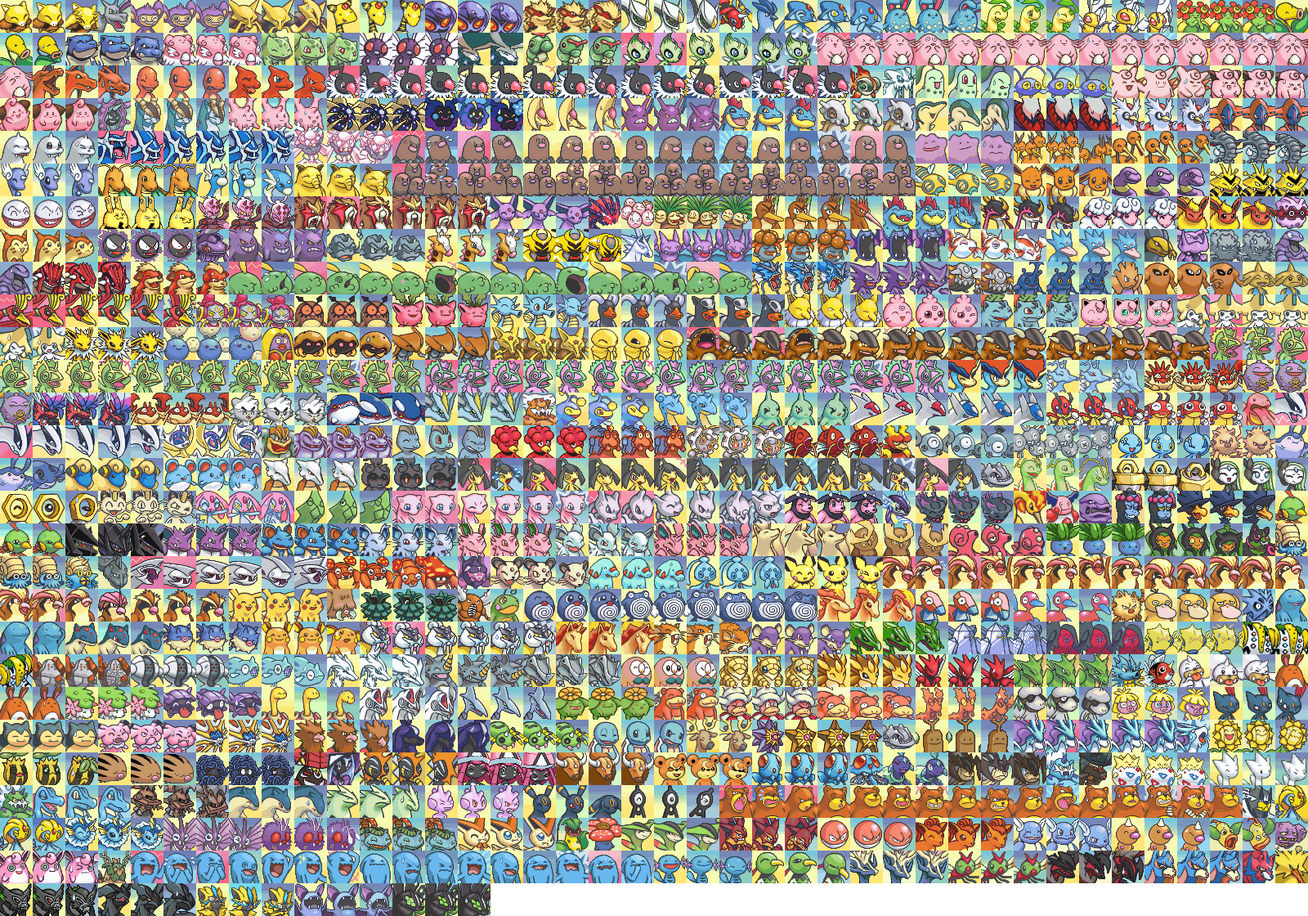
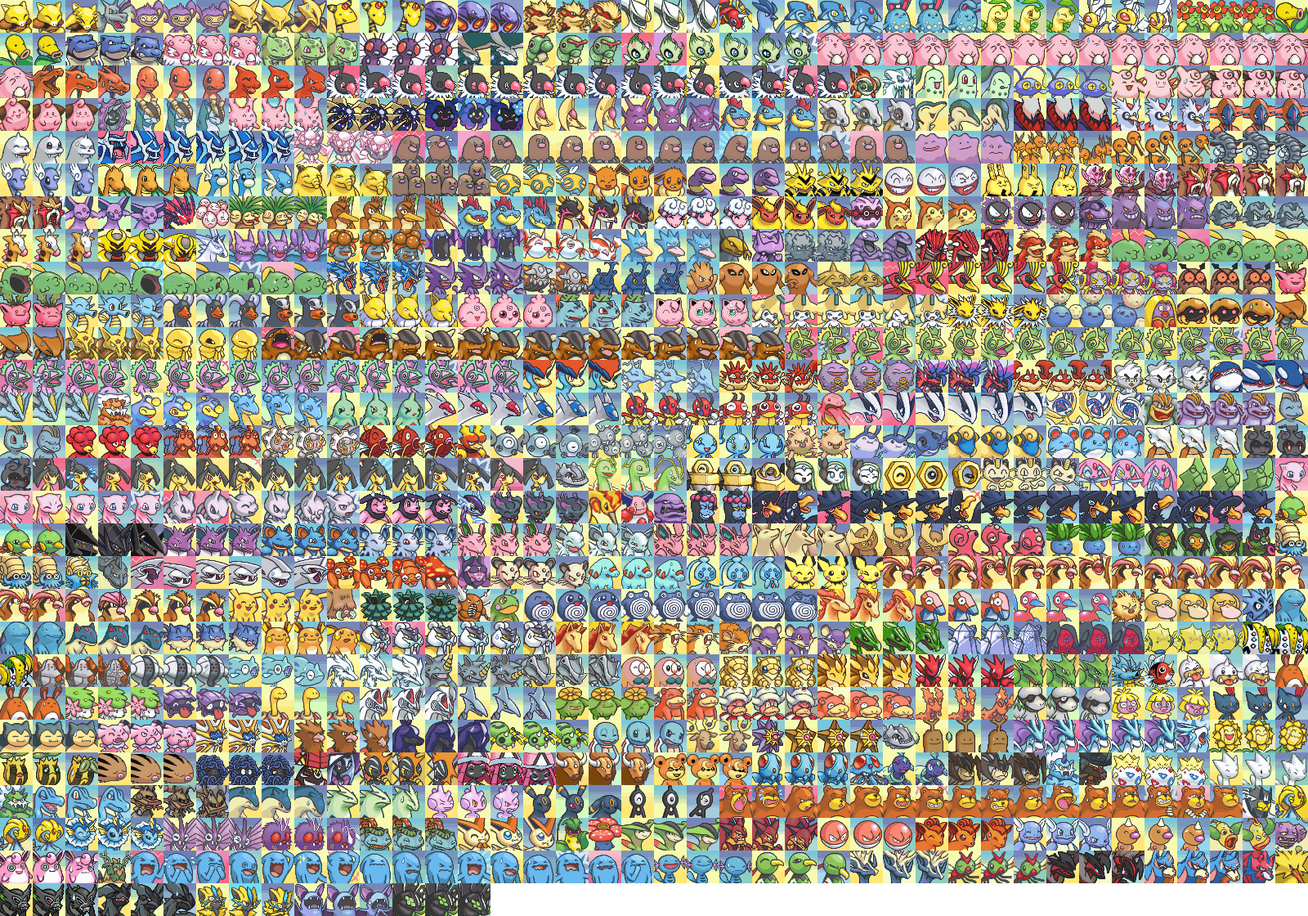
Beta 0.3.1: Murkrow, el cartero del gremio

diff --git a/client/js/portraits.js b/client/js/portraits.js
@@ -1,3 +1,3 @@
 // Generado por tools/build-portraits.py — retratos con emociones (atlas 40×40, 40 por fila)
-export const PORTRAIT = {"abra":{"Happy":0,"Normal":1,"Pain":2},"aerodactyl":{"Normal":3},"aipom":{"Happy":4,"Normal":5,"Pain":6},"alakazam":{"Happy":7,"Normal":8,"Pain":9},"ampharos":{"Happy":10,"Normal":11,"Pain":12},"arbok":{"Happy":13,"Normal":14,"Pain":15},"arcanine":{"Happy":16,"Normal":17,"Pain":18},"arceus":{"Happy":19,"Normal":20,"Pain":21},"ariados":{"Normal":22},"articuno":{"Normal":23},"azelf":{"Happy":24,"Normal":25,"Pain":26},"azumarill":{"Happy":27,"Normal":28,"Pain":29},"bayleef":{"Happy":30,"Normal":31,"Pain":32},"beedrill":{"Happy":33,"Normal":34,"Pain":35},"bellossom":{"Happy":36,"Normal":37,"Pain":38},"bellsprout":{"Happy":39,"Normal":40,"Pain":41},"blastoise":{"Happy":42,"Normal":43,"Pain":44},"blissey":{"Happy":45,"Normal":46,"Pain":47},"bulbasaur":{"Happy":48,"Normal":49,"Pain":50},"butterfree":{"Happy":51,"Normal":52,"Pain":53},"calyrex":{"Happy":54,"Normal":55},"caterpie":{"Happy":56,"Normal":57,"Pain":58},"celebi":{"Angry":59,"Determined":60,"Happy":61,"Normal":62,"Pain":63,"Surprised":64},"chansey":{"Angry":65,"Crying":66,"Determined":67,"Dizzy":68,"Happy":69,"Inspired":70,"Joyous":71,"Normal":72,"Pain":73,"Sad":74,"Shouting":75,"Sigh":76,"Stunned":77,"Surprised":78,"Teary-Eyed":79,"Worried":80},"charizard":{"Happy":81,"Normal":82,"Pain":83},"charmander":{"Happy":84,"Normal":85,"Pain":86},"charmeleon":{"Happy":87,"Normal":88,"Pain":89},"chatot":{"Angry":90,"Crying":91,"Determined":92,"Dizzy":93,"Happy":94,"Inspired":95,"Joyous":96,"Normal":97,"Pain":98,"Sad":99,"Shouting":100,"Sigh":101,"Stunned":102,"Surprised":103,"Teary-Eyed":104,"Worried":105},"chi_yu":{"Normal":106},"chien_pao":{"Normal":107},"chikorita":{"Happy":108,"Normal":109,"Pain":110},"chinchou":{"Happy":111,"Normal":112,"Pain":113},"clefable":{"Happy":114,"Normal":115,"Pain":116},"clefairy":{"Happy":117,"Normal":118,"Pain":119},"cleffa":{"Happy":120,"Normal":121,"Pain":122},"cloyster":{"Normal":123},"cobalion":{"Happy":124,"Normal":125,"Pain":126},"corsola":{"Happy":127,"Normal":128,"Pain":129},"cosmoem":{"Happy":130,"Normal":131,"Pain":132},"cosmog":{"Happy":133,"Normal":134,"Pain":135},"cresselia":{"Happy":136,"Normal":137,"Pain":138},"crobat":{"Happy":139,"Normal":140,"Pain":141},"croconaw":{"Happy":142,"Normal":143,"Pain":144},"cubone":{"Happy":145,"Normal":146,"Pain":147},"cyndaquil":{"Happy":148,"Normal":149,"Pain":150},"darkrai":{"Happy":151,"Normal":152,"Pain":153},"delibird":{"Happy":154,"Normal":155,"Pain":156},"deoxys":{"Happy":157,"Normal":158,"Pain":159},"dewgong":{"Happy":160,"Normal":161,"Pain":162},"dialga":{"Angry":163,"Determined":164,"Happy":165,"Normal":166,"Pain":167,"Surprised":168},"diancie":{"Happy":169,"Normal":170,"Pain":171},"diglett":{"Angry":172,"Crying":173,"Determined":174,"Dizzy":175,"Happy":176,"Inspired":177,"Joyous":178,"Normal":179,"Pain":180,"Sad":181,"Shouting":182,"Sigh":183,"Stunned":184,"Surprised":185,"Teary-Eyed":186,"Worried":187},"ditto":{"Happy":188,"Normal":189,"Pain":190},"dodrio":{"Happy":191,"Normal":192,"Pain":193},"doduo":{"Happy":194,"Normal":195,"Pain":196},"donphan":{"Happy":197,"Normal":198,"Pain":199},"dragonair":{"Happy":200,"Normal":201,"Pain":202},"dragonite":{"Happy":203,"Normal":204,"Pain":205},"dratini":{"Happy":206,"Normal":207,"Pain":208},"drowzee":{"Happy":209,"Normal":210,"Pain":211},"dugtrio":{"Angry":212,"Crying":213,"Determined":214,"Dizzy":215,"Happy":216,"Inspired":217,"Joyous":218,"Normal":219,"Pain":220,"Sad":221,"Shouting":222,"Sigh":223,"Stunned":224,"Surprised":225,"Teary-Eyed":226,"Worried":227},"dunsparce":{"Happy":228,"Normal":229,"Pain":230},"eevee":{"Happy":231,"Normal":232,"Pain":233},"ekans":{"Happy":234,"Normal":235,"Pain":236},"electabuzz":{"Happy":237,"Normal":238,"Pain":239},"electrode":{"Happy":240,"Normal":241,"Pain":242},"elekid":{"Happy":243,"Normal":244,"Pain":245},"enamorus":{"Happy":246,"Normal":247,"Pain":248},"entei":{"Angry":249,"Determined":250,"Happy":251,"Normal":252,"Pain":253,"Surprised":254},"espeon":{"Happy":255,"Normal":256,"Pain":257},"eternatus":{"Normal":258},"exeggcute":{"Normal":259},"exeggutor":{"Happy":260,"Normal":261,"Pain":262},"farfetchd":{"Happy":263,"Normal":264,"Pain":265},"fearow":{"Normal":266},"feraligatr":{"Happy":267,"Normal":268,"Pain":269},"fezandipiti":{"Happy":270,"Normal":271,"Pain":272},"flaaffy":{"Happy":273,"Normal":274,"Pain":275},"flareon":{"Happy":276,"Normal":277,"Pain":278},"forretress":{"Normal":279},"furret":{"Happy":280,"Normal":281,"Pain":282},"gastly":{"Happy":283,"Normal":284,"Pain":285},"genesect":{"Normal":286},"gengar":{"Happy":287,"Normal":288,"Pain":289},"geodude":{"Happy":290,"Normal":291,"Pain":292},"girafarig":{"Happy":293,"Normal":294,"Pain":295},"giratina":{"Happy":296,"Normal":297,"Pain":298},"glastrier":{"Normal":299},"gligar":{"Happy":300,"Normal":301,"Pain":302},"gloom":{"Happy":303,"Normal":304,"Pain":305},"golbat":{"Happy":306,"Normal":307,"Pain":308},"goldeen":{"Happy":309,"Normal":310,"Pain":311},"golduck":{"Happy":312,"Normal":313,"Pain":314},"golem":{"Normal":315},"granbull":{"Normal":316},"graveler":{"Normal":317,"Pain":318},"grimer":{"Normal":319,"Pain":320},"groudon":{"Happy":321,"Normal":322,"Pain":323},"growlithe":{"Happy":324,"Normal":325,"Pain":326},"gulpin":{"Angry":327,"Crying":328,"Determined":329,"Dizzy":330,"Happy":331,"Inspired":332,"Joyous":333,"Normal":334,"Pain":335,"Sad":336,"Shouting":337,"Sigh":338,"Stunned":339,"Surprised":340,"Teary-Eyed":341,"Worried":342},"gyarados":{"Happy":343,"Normal":344,"Pain":345},"haunter":{"Happy":346,"Normal":347,"Pain":348},"heatran":{"Normal":349,"Pain":350},"heracross":{"Happy":351,"Normal":352,"Pain":353},"hitmonchan":{"Normal":354},"hitmonlee":{"Happy":355,"Normal":356,"Pain":357},"hitmontop":{"Happy":358,"Normal":359},"ho_oh":{"Angry":360,"Determined":361,"Happy":362,"Normal":363,"Pain":364,"Surprised":365},"hoopa":{"Happy":366,"Normal":367,"Pain":368},"hoothoot":{"Happy":369,"Normal":370,"Pain":371},"hoppip":{"Happy":372,"Normal":373,"Pain":374},"horsea":{"Happy":375,"Normal":376,"Pain":377},"houndoom":{"Happy":378,"Normal":379,"Pain":380},"houndour":{"Happy":381,"Normal":382,"Pain":383},"hypno":{"Happy":384,"Normal":385,"Pain":386},"igglybuff":{"Happy":387,"Normal":388,"Pain":389},"ivysaur":{"Happy":390,"Normal":391,"Pain":392},"jigglypuff":{"Happy":393,"Normal":394,"Pain":395},"jirachi":{"Angry":396,"Determined":397,"Happy":398,"Normal":399,"Pain":400,"Surprised":401},"jolteon":{"Happy":402,"Normal":403,"Pain":404},"jumpluff":{"Happy":405,"Normal":406,"Pain":407},"jynx":{"Normal":408},"kabuto":{"Happy":409,"Normal":410,"Pain":411},"kabutops":{"Happy":412,"Normal":413,"Pain":414},"kadabra":{"Happy":415,"Normal":416,"Pain":417},"kakuna":{"Happy":418,"Normal":419,"Pain":420},"kangaskhan":{"Angry":421,"Crying":422,"Determined":423,"Dizzy":424,"Happy":425,"Inspired":426,"Joyous":427,"Normal":428,"Pain":429,"Sad":430,"Shouting":431,"Sigh":432,"Stunned":433,"Surprised":434,"Teary-Eyed":435,"Worried":436},"kecleon":{"Angry":437,"Crying":438,"Determined":439,"Dizzy":440,"Happy":441,"Inspired":442,"Joyous":443,"Normal":444,"Pain":445,"Sad":446,"Shouting":447,"Sigh":448,"Stunned":449,"Surprised":450,"Teary-Eyed":451,"Worried":452},"kecleon_purple":{"Angry":453,"Crying":454,"Determined":455,"Dizzy":456,"Happy":457,"Inspired":458,"Joyous":459,"Normal":460,"Pain":461,"Sad":462,"Shouting":463,"Sigh":464,"Stunned":465,"Surprised":466,"Teary-Eyed":467,"Worried":468},"keldeo":{"Happy":469,"Normal":470,"Pain":471},"kingdra":{"Happy":472,"Normal":473,"Pain":474},"kingler":{"Happy":475,"Normal":476,"Pain":477},"koffing":{"Happy":478,"Normal":479,"Pain":480},"koraidon":{"Happy":481,"Normal":482,"Pain":483},"krabby":{"Happy":484,"Normal":485,"Pain":486},"kubfu":{"Happy":487,"Normal":488,"Pain":489},"kyogre":{"Happy":490,"Normal":491,"Pain":492},"kyurem":{"Happy":493,"Normal":494,"Pain":495},"landorus":{"Normal":496},"lanturn":{"Happy":497,"Normal":498,"Pain":499},"lapras":{"Happy":500,"Normal":501,"Pain":502},"larvitar":{"Happy":503,"Normal":504,"Pain":505},"latias":{"Happy":506,"Normal":507,"Pain":508},"latios":{"Happy":509,"Normal":510,"Pain":511},"ledian":{"Happy":512,"Normal":513,"Pain":514},"ledyba":{"Happy":515,"Normal":516,"Pain":517},"lickitung":{"Normal":518},"lugia":{"Angry":519,"Determined":520,"Happy":521,"Normal":522,"Pain":523,"Surprised":524},"lunala":{"Happy":525,"Normal":526,"Pain":527},"machamp":{"Normal":528},"machoke":{"Happy":529,"Normal":530,"Pain":531},"machop":{"Happy":532,"Normal":533,"Pain":534},"magby":{"Happy":535,"Normal":536,"Pain":537},"magcargo":{"Happy":538,"Normal":539,"Pain":540},"magearna":{"Happy":541,"Normal":542,"Pain":543},"magikarp":{"Happy":544,"Normal":545,"Pain":546},"magmar":{"Normal":547},"magnemite":{"Happy":548,"Normal":549,"Pain":550},"magneton":{"Happy":551,"Normal":552,"Pain":553},"manaphy":{"Happy":554,"Normal":555,"Pain":556},"mankey":{"Happy":557,"Normal":558},"mantine":{"Happy":559,"Normal":560,"Pain":561},"mareep":{"Happy":562,"Normal":563,"Pain":564},"marill":{"Happy":565,"Normal":566,"Pain":567},"marowak":{"Happy":568,"Normal":569,"Pain":570},"marshadow":{"Happy":571,"Normal":572,"Pain":573},"mawile":{"Angry":574,"Crying":575,"Determined":576,"Dizzy":577,"Happy":578,"Inspired":579,"Joyous":580,"Normal":581,"Pain":582,"Sad":583,"Shouting":584,"Sigh":585,"Stunned":586,"Surprised":587,"Teary-Eyed":588,"Worried":589},"mega_steelix":{"Normal":590},"meganium":{"Happy":591,"Normal":592,"Pain":593},"melmetal":{"Happy":594,"Normal":595,"Pain":596},"meloetta":{"Happy":597,"Normal":598,"Pain":599},"meltan":{"Happy":600,"Normal":601,"Pain":602},"meowth":{"Happy":603,"Normal":604,"Pain":605},"mesprit":{"Happy":606,"Normal":607,"Pain":608},"metapod":{"Happy":609,"Normal":610,"Pain":611},"mew":{"Angry":612,"Determined":613,"Happy":614,"Normal":615,"Pain":616,"Surprised":617},"mewtwo":{"Angry":618,"Determined":619,"Happy":620,"Normal":621,"Pain":622,"Surprised":623},"miltank":{"Happy":624,"Normal":625,"Pain":626},"miraidon":{"Normal":627},"misdreavus":{"Happy":628,"Normal":629,"Pain":630},"moltres":{"Normal":631},"mr_mime":{"Normal":632},"muk":{"Normal":633},"munkidori":{"Happy":634,"Normal":635},"murkrow":{"Happy":636,"Normal":637,"Pain":638},"natu":{"Happy":639,"Normal":640,"Pain":641},"necrozma":{"Happy":642,"Normal":643,"Pain":644},"nidoking":{"Happy":645,"Normal":646,"Pain":647},"nidoqueen":{"Happy":648,"Normal":649,"Pain":650},"nidoran_f":{"Happy":651,"Normal":652,"Pain":653},"nidoran_m":{"Happy":654,"Normal":655,"Pain":656},"nidorina":{"Happy":657,"Normal":658,"Pain":659},"nidorino":{"Happy":660,"Normal":661,"Pain":662},"ninetales":{"Happy":663,"Normal":664,"Pain":665},"noctowl":{"Happy":666,"Normal":667,"Pain":668},"octillery":{"Happy":669,"Normal":670,"Pain":671},"oddish":{"Happy":672,"Normal":673,"Pain":674},"ogerpon":{"Happy":675,"Normal":676,"Pain":677},"okidogi":{"Normal":678},"omanyte":{"Happy":679,"Normal":680,"Pain":681},"omastar":{"Normal":682},"onix":{"Normal":683},"palkia":{"Angry":684,"Determined":685,"Happy":686,"Normal":687,"Pain":688,"Surprised":689},"paras":{"Happy":690,"Normal":691,"Pain":692},"parasect":{"Normal":693},"pecharunt":{"Normal":694},"persian":{"Happy":695,"Normal":696,"Pain":697},"phanpy":{"Happy":698,"Normal":699,"Pain":700},"phione":{"Happy":701,"Normal":702,"Pain":703},"pichu":{"Happy":704,"Normal":705,"Pain":706},"pidgeot":{"Angry":707,"Crying":708,"Determined":709,"Dizzy":710,"Happy":711,"Inspired":712,"Joyous":713,"Normal":714,"Pain":715,"Sad":716,"Shouting":717,"Sigh":718,"Stunned":719,"Surprised":720,"Teary-Eyed":721,"Worried":722},"pidgeotto":{"Normal":723},"pidgey":{"Happy":724,"Normal":725,"Pain":726},"pikachu":{"Happy":727,"Normal":728,"Pain":729},"piloswine":{"Normal":730},"pineco":{"Happy":731,"Normal":732,"Pain":733},"pinsir":{"Normal":734},"politoed":{"Normal":735},"poliwag":{"Happy":736,"Normal":737,"Pain":738},"poliwhirl":{"Happy":739,"Normal":740,"Pain":741},"poliwrath":{"Happy":742,"Normal":743,"Pain":744},"ponyta":{"Happy":745,"Normal":746,"Pain":747},"porygon":{"Happy":748,"Normal":749,"Pain":750},"porygon2":{"Happy":751,"Normal":752,"Pain":753},"primeape":{"Normal":754},"psyduck":{"Happy":755,"Normal":756,"Pain":757},"pupitar":{"Normal":758},"quagsire":{"Happy":759,"Normal":760,"Pain":761},"quilava":{"Happy":762,"Normal":763,"Pain":764},"qwilfish":{"Happy":765,"Normal":766,"Pain":767},"raichu":{"Happy":768,"Normal":769,"Pain":770},"raikou":{"Angry":771,"Determined":772,"Happy":773,"Normal":774,"Pain":775,"Surprised":776},"rapidash":{"Happy":777,"Normal":778,"Pain":779},"raticate":{"Happy":780,"Normal":781,"Pain":782},"rattata":{"Happy":783,"Normal":784,"Pain":785},"rayquaza":{"Happy":786,"Normal":787,"Pain":788},"regice":{"Happy":789,"Normal":790,"Pain":791},"regidrago":{"Happy":792,"Normal":793,"Pain":794},"regieleki":{"Happy":795,"Normal":796,"Pain":797},"regigigas":{"Happy":798,"Normal":799,"Pain":800},"regirock":{"Happy":801,"Normal":802,"Pain":803},"registeel":{"Happy":804,"Normal":805,"Pain":806},"remoraid":{"Happy":807,"Normal":808,"Pain":809},"reshiram":{"Happy":810,"Normal":811,"Pain":812},"rhydon":{"Happy":813,"Normal":814,"Pain":815},"rhyhorn":{"Happy":816,"Normal":817,"Pain":818},"rowlet":{"Happy":819,"Normal":820,"Pain":821},"sandshrew":{"Happy":822,"Normal":823,"Pain":824},"sandslash":{"Happy":825,"Normal":826,"Pain":827},"scizor":{"Happy":828,"Normal":829,"Pain":830},"scyther":{"Happy":831,"Normal":832,"Pain":833},"seadra":{"Normal":834},"seaking":{"Normal":835},"seel":{"Happy":836,"Normal":837,"Pain":838},"sentret":{"Happy":839,"Normal":840,"Pain":841},"shaymin":{"Happy":842,"Normal":843,"Pain":844},"shellder":{"Happy":845,"Normal":846,"Pain":847},"shuckle":{"Happy":848,"Normal":849,"Pain":850},"silvally":{"Happy":851,"Normal":852,"Pain":853},"skarmory":{"Happy":854,"Normal":855,"Pain":856},"skiploom":{"Happy":857,"Normal":858,"Pain":859},"slowbro":{"Happy":860,"Normal":861},"slowking":{"Happy":862,"Normal":863,"Pain":864},"slowpoke":{"Happy":865,"Normal":866,"Pain":867},"slugma":{"Happy":868,"Normal":869,"Pain":870},"smeargle":{"Happy":871,"Normal":872,"Pain":873},"smoochum":{"Happy":874,"Normal":875,"Pain":876},"sneasel":{"Happy":877,"Normal":878,"Pain":879},"snorlax":{"Happy":880,"Normal":881,"Pain":882},"snubbull":{"Happy":883,"Normal":884,"Pain":885},"solgaleo":{"Happy":886,"Normal":887,"Pain":888},"spearow":{"Happy":889,"Normal":890,"Pain":891},"spectrier":{"Happy":892,"Normal":893,"Pain":894},"spinarak":{"Happy":895,"Normal":896,"Pain":897},"squirtle":{"Happy":898,"Normal":899,"Pain":900},"stantler":{"Happy":901,"Normal":902},"starmie":{"Normal":903},"staryu":{"Happy":904,"Normal":905,"Pain":906},"steelix":{"Normal":907},"sudowoodo":{"Happy":908,"Normal":909,"Pain":910},"suicune":{"Angry":911,"Determined":912,"Happy":913,"Normal":914,"Pain":915,"Surprised":916},"sunflora":{"Happy":917,"Normal":918,"Pain":919},"sunkern":{"Happy":920,"Normal":921,"Pain":922},"swinub":{"Happy":923,"Normal":924,"Pain":925},"tangela":{"Happy":926,"Normal":927,"Pain":928},"tapu_bulu":{"Normal":929},"tapu_fini":{"Normal":930},"tapu_koko":{"Happy":931,"Normal":932,"Pain":933},"tapu_lele":{"Happy":934,"Normal":935,"Pain":936},"tauros":{"Happy":937,"Normal":938,"Pain":939},"teddiursa":{"Happy":940,"Normal":941,"Pain":942},"tentacool":{"Happy":943,"Normal":944,"Pain":945},"tentacruel":{"Normal":946},"terapagos":{"Happy":947,"Normal":948},"terrakion":{"Happy":949,"Normal":950,"Pain":951},"thundurus":{"Normal":952},"ting_lu":{"Normal":953},"togepi":{"Happy":954,"Normal":955,"Pain":956},"togetic":{"Happy":957,"Normal":958,"Pain":959},"tornadus":{"Normal":960},"totodile":{"Happy":961,"Normal":962,"Pain":963},"type_null":{"Happy":964,"Normal":965,"Pain":966},"typhlosion":{"Happy":967,"Normal":968,"Pain":969},"tyranitar":{"Happy":970,"Normal":971,"Pain":972},"tyrogue":{"Happy":973,"Normal":974,"Pain":975},"umbreon":{"Happy":976,"Normal":977,"Pain":978},"unown":{"Happy":979,"Normal":980,"Pain":981},"ursaring":{"Angry":982,"Crying":983,"Determined":984,"Dizzy":985,"Happy":986,"Inspired":987,"Joyous":988,"Normal":989,"Pain":990,"Sad":991,"Shouting":992,"Sigh":993,"Stunned":994,"Surprised":995,"Teary-Eyed":996,"Worried":997},"urshifu":{"Normal":998},"uxie":{"Happy":999,"Normal":1000,"Pain":1001},"vaporeon":{"Happy":1002,"Normal":1003,"Pain":1004},"venomoth":{"Happy":1005,"Normal":1006,"Pain":1007},"venonat":{"Happy":1008,"Normal":1009,"Pain":1010},"venusaur":{"Happy":1011,"Normal":1012,"Pain":1013},"victini":{"Happy":1014,"Normal":1015,"Pain":1016},"victreebel":{"Normal":1017},"vileplume":{"Normal":1018},"virizion":{"Happy":1019,"Normal":1020,"Pain":1021},"volcanion":{"Happy":1022,"Normal":1023,"Pain":1024},"voltorb":{"Happy":1025,"Normal":1026,"Pain":1027},"vulpix":{"Happy":1028,"Normal":1029,"Pain":1030},"wartortle":{"Happy":1031,"Normal":1032,"Pain":1033},"weedle":{"Happy":1034,"Normal":1035,"Pain":1036},"weepinbell":{"Normal":1037,"Pain":1038},"weezing":{"Normal":1039},"wigglytuff":{"Happy":1040,"Normal":1041,"Pain":1042},"wo_chien":{"Normal":1043},"wobbuffet":{"Angry":1044,"Crying":1045,"Determined":1046,"Dizzy":1047,"Happy":1048,"Inspired":1049,"Joyous":1050,"Normal":1051,"Pain":1052,"Sad":1053,"Shouting":1054,"Sigh":1055,"Stunned":1056,"Surprised":1057,"Teary-Eyed":1058,"Worried":1059},"wooper":{"Happy":1060,"Normal":1061,"Pain":1062},"xatu":{"Happy":1063,"Normal":1064,"Pain":1065},"xerneas":{"Happy":1066,"Normal":1067,"Pain":1068},"yanma":{"Happy":1069,"Normal":1070,"Pain":1071},"yveltal":{"Happy":1072,"Normal":1073,"Pain":1074},"zacian":{"Happy":1075,"Normal":1076,"Pain":1077},"zamazenta":{"Normal":1078},"zapdos":{"Normal":1079},"zarude":{"Happy":1080,"Normal":1081,"Pain":1082},"zekrom":{"Happy":1083,"Normal":1084,"Pain":1085},"zeraora":{"Happy":1086,"Normal":1087,"Pain":1088},"zubat":{"Happy":1089,"Normal":1090,"Pain":1091},"zygarde":{"Happy":1092,"Normal":1093,"Pain":1094}};
+export const PORTRAIT = {"abra":{"Happy":0,"Normal":1,"Pain":2},"aerodactyl":{"Normal":3},"aipom":{"Happy":4,"Normal":5,"Pain":6},"alakazam":{"Happy":7,"Normal":8,"Pain":9},"ampharos":{"Happy":10,"Normal":11,"Pain":12},"arbok":{"Happy":13,"Normal":14,"Pain":15},"arcanine":{"Happy":16,"Normal":17,"Pain":18},"arceus":{"Happy":19,"Normal":20,"Pain":21},"ariados":{"Normal":22},"articuno":{"Normal":23},"azelf":{"Happy":24,"Normal":25,"Pain":26},"azumarill":{"Happy":27,"Normal":28,"Pain":29},"bayleef":{"Happy":30,"Normal":31,"Pain":32},"beedrill":{"Happy":33,"Normal":34,"Pain":35},"bellossom":{"Happy":36,"Normal":37,"Pain":38},"bellsprout":{"Happy":39,"Normal":40,"Pain":41},"blastoise":{"Happy":42,"Normal":43,"Pain":44},"blissey":{"Happy":45,"Normal":46,"Pain":47},"bulbasaur":{"Happy":48,"Normal":49,"Pain":50},"butterfree":{"Happy":51,"Normal":52,"Pain":53},"calyrex":{"Happy":54,"Normal":55},"caterpie":{"Happy":56,"Normal":57,"Pain":58},"celebi":{"Angry":59,"Determined":60,"Happy":61,"Normal":62,"Pain":63,"Surprised":64},"chansey":{"Angry":65,"Crying":66,"Determined":67,"Dizzy":68,"Happy":69,"Inspired":70,"Joyous":71,"Normal":72,"Pain":73,"Sad":74,"Shouting":75,"Sigh":76,"Stunned":77,"Surprised":78,"Teary-Eyed":79,"Worried":80},"charizard":{"Happy":81,"Normal":82,"Pain":83},"charmander":{"Happy":84,"Normal":85,"Pain":86},"charmeleon":{"Happy":87,"Normal":88,"Pain":89},"chatot":{"Angry":90,"Crying":91,"Determined":92,"Dizzy":93,"Happy":94,"Inspired":95,"Joyous":96,"Normal":97,"Pain":98,"Sad":99,"Shouting":100,"Sigh":101,"Stunned":102,"Surprised":103,"Teary-Eyed":104,"Worried":105},"chi_yu":{"Normal":106},"chien_pao":{"Normal":107},"chikorita":{"Happy":108,"Normal":109,"Pain":110},"chinchou":{"Happy":111,"Normal":112,"Pain":113},"clefable":{"Happy":114,"Normal":115,"Pain":116},"clefairy":{"Happy":117,"Normal":118,"Pain":119},"cleffa":{"Happy":120,"Normal":121,"Pain":122},"cloyster":{"Normal":123},"cobalion":{"Happy":124,"Normal":125,"Pain":126},"corsola":{"Happy":127,"Normal":128,"Pain":129},"cosmoem":{"Happy":130,"Normal":131,"Pain":132},"cosmog":{"Happy":133,"Normal":134,"Pain":135},"cresselia":{"Happy":136,"Normal":137,"Pain":138},"crobat":{"Happy":139,"Normal":140,"Pain":141},"croconaw":{"Happy":142,"Normal":143,"Pain":144},"cubone":{"Happy":145,"Normal":146,"Pain":147},"cyndaquil":{"Happy":148,"Normal":149,"Pain":150},"darkrai":{"Happy":151,"Normal":152,"Pain":153},"delibird":{"Happy":154,"Normal":155,"Pain":156},"deoxys":{"Happy":157,"Normal":158,"Pain":159},"dewgong":{"Happy":160,"Normal":161,"Pain":162},"dialga":{"Angry":163,"Determined":164,"Happy":165,"Normal":166,"Pain":167,"Surprised":168},"diancie":{"Happy":169,"Normal":170,"Pain":171},"diglett":{"Angry":172,"Crying":173,"Determined":174,"Dizzy":175,"Happy":176,"Inspired":177,"Joyous":178,"Normal":179,"Pain":180,"Sad":181,"Shouting":182,"Sigh":183,"Stunned":184,"Surprised":185,"Teary-Eyed":186,"Worried":187},"ditto":{"Happy":188,"Normal":189,"Pain":190},"dodrio":{"Happy":191,"Normal":192,"Pain":193},"doduo":{"Happy":194,"Normal":195,"Pain":196},"donphan":{"Happy":197,"Normal":198,"Pain":199},"dragonair":{"Happy":200,"Normal":201,"Pain":202},"dragonite":{"Happy":203,"Normal":204,"Pain":205},"dratini":{"Happy":206,"Normal":207,"Pain":208},"drowzee":{"Happy":209,"Normal":210,"Pain":211},"dugtrio":{"Happy":212,"Normal":213,"Pain":214},"dunsparce":{"Happy":215,"Normal":216,"Pain":217},"eevee":{"Happy":218,"Normal":219,"Pain":220},"ekans":{"Happy":221,"Normal":222,"Pain":223},"electabuzz":{"Happy":224,"Normal":225,"Pain":226},"electrode":{"Happy":227,"Normal":228,"Pain":229},"elekid":{"Happy":230,"Normal":231,"Pain":232},"enamorus":{"Happy":233,"Normal":234,"Pain":235},"entei":{"Angry":236,"Determined":237,"Happy":238,"Normal":239,"Pain":240,"Surprised":241},"espeon":{"Happy":242,"Normal":243,"Pain":244},"eternatus":{"Normal":245},"exeggcute":{"Normal":246},"exeggutor":{"Happy":247,"Normal":248,"Pain":249},"farfetchd":{"Happy":250,"Normal":251,"Pain":252},"fearow":{"Normal":253},"feraligatr":{"Happy":254,"Normal":255,"Pain":256},"fezandipiti":{"Happy":257,"Normal":258,"Pain":259},"flaaffy":{"Happy":260,"Normal":261,"Pain":262},"flareon":{"Happy":263,"Normal":264,"Pain":265},"forretress":{"Normal":266},"furret":{"Happy":267,"Normal":268,"Pain":269},"gastly":{"Happy":270,"Normal":271,"Pain":272},"genesect":{"Normal":273},"gengar":{"Happy":274,"Normal":275,"Pain":276},"geodude":{"Happy":277,"Normal":278,"Pain":279},"girafarig":{"Happy":280,"Normal":281,"Pain":282},"giratina":{"Happy":283,"Normal":284,"Pain":285},"glastrier":{"Normal":286},"gligar":{"Happy":287,"Normal":288,"Pain":289},"gloom":{"Happy":290,"Normal":291,"Pain":292},"golbat":{"Happy":293,"Normal":294,"Pain":295},"goldeen":{"Happy":296,"Normal":297,"Pain":298},"golduck":{"Happy":299,"Normal":300,"Pain":301},"golem":{"Normal":302},"granbull":{"Normal":303},"graveler":{"Normal":304,"Pain":305},"grimer":{"Normal":306,"Pain":307},"groudon":{"Happy":308,"Normal":309,"Pain":310},"growlithe":{"Happy":311,"Normal":312,"Pain":313},"gulpin":{"Angry":314,"Crying":315,"Determined":316,"Dizzy":317,"Happy":318,"Inspired":319,"Joyous":320,"Normal":321,"Pain":322,"Sad":323,"Shouting":324,"Sigh":325,"Stunned":326,"Surprised":327,"Teary-Eyed":328,"Worried":329},"gyarados":{"Happy":330,"Normal":331,"Pain":332},"haunter":{"Happy":333,"Normal":334,"Pain":335},"heatran":{"Normal":336,"Pain":337},"heracross":{"Happy":338,"Normal":339,"Pain":340},"hitmonchan":{"Normal":341},"hitmonlee":{"Happy":342,"Normal":343,"Pain":344},"hitmontop":{"Happy":345,"Normal":346},"ho_oh":{"Angry":347,"Determined":348,"Happy":349,"Normal":350,"Pain":351,"Surprised":352},"hoopa":{"Happy":353,"Normal":354,"Pain":355},"hoothoot":{"Happy":356,"Normal":357,"Pain":358},"hoppip":{"Happy":359,"Normal":360,"Pain":361},"horsea":{"Happy":362,"Normal":363,"Pain":364},"houndoom":{"Happy":365,"Normal":366,"Pain":367},"houndour":{"Happy":368,"Normal":369,"Pain":370},"hypno":{"Happy":371,"Normal":372,"Pain":373},"igglybuff":{"Happy":374,"Normal":375,"Pain":376},"ivysaur":{"Happy":377,"Normal":378,"Pain":379},"jigglypuff":{"Happy":380,"Normal":381,"Pain":382},"jirachi":{"Angry":383,"Determined":384,"Happy":385,"Normal":386,"Pain":387,"Surprised":388},"jolteon":{"Happy":389,"Normal":390,"Pain":391},"jumpluff":{"Happy":392,"Normal":393,"Pain":394},"jynx":{"Normal":395},"kabuto":{"Happy":396,"Normal":397,"Pain":398},"kabutops":{"Happy":399,"Normal":400,"Pain":401},"kadabra":{"Happy":402,"Normal":403,"Pain":404},"kakuna":{"Happy":405,"Normal":406,"Pain":407},"kangaskhan":{"Angry":408,"Crying":409,"Determined":410,"Dizzy":411,"Happy":412,"Inspired":413,"Joyous":414,"Normal":415,"Pain":416,"Sad":417,"Shouting":418,"Sigh":419,"Stunned":420,"Surprised":421,"Teary-Eyed":422,"Worried":423},"kecleon":{"Angry":424,"Crying":425,"Determined":426,"Dizzy":427,"Happy":428,"Inspired":429,"Joyous":430,"Normal":431,"Pain":432,"Sad":433,"Shouting":434,"Sigh":435,"Stunned":436,"Surprised":437,"Teary-Eyed":438,"Worried":439},"kecleon_purple":{"Angry":440,"Crying":441,"Determined":442,"Dizzy":443,"Happy":444,"Inspired":445,"Joyous":446,"Normal":447,"Pain":448,"Sad":449,"Shouting":450,"Sigh":451,"Stunned":452,"Surprised":453,"Teary-Eyed":454,"Worried":455},"keldeo":{"Happy":456,"Normal":457,"Pain":458},"kingdra":{"Happy":459,"Normal":460,"Pain":461},"kingler":{"Happy":462,"Normal":463,"Pain":464},"koffing":{"Happy":465,"Normal":466,"Pain":467},"koraidon":{"Happy":468,"Normal":469,"Pain":470},"krabby":{"Happy":471,"Normal":472,"Pain":473},"kubfu":{"Happy":474,"Normal":475,"Pain":476},"kyogre":{"Happy":477,"Normal":478,"Pain":479},"kyurem":{"Happy":480,"Normal":481,"Pain":482},"landorus":{"Normal":483},"lanturn":{"Happy":484,"Normal":485,"Pain":486},"lapras":{"Happy":487,"Normal":488,"Pain":489},"larvitar":{"Happy":490,"Normal":491,"Pain":492},"latias":{"Happy":493,"Normal":494,"Pain":495},"latios":{"Happy":496,"Normal":497,"Pain":498},"ledian":{"Happy":499,"Normal":500,"Pain":501},"ledyba":{"Happy":502,"Normal":503,"Pain":504},"lickitung":{"Normal":505},"lugia":{"Angry":506,"Determined":507,"Happy":508,"Normal":509,"Pain":510,"Surprised":511},"lunala":{"Happy":512,"Normal":513,"Pain":514},"machamp":{"Normal":515},"machoke":{"Happy":516,"Normal":517,"Pain":518},"machop":{"Happy":519,"Normal":520,"Pain":521},"magby":{"Happy":522,"Normal":523,"Pain":524},"magcargo":{"Happy":525,"Normal":526,"Pain":527},"magearna":{"Happy":528,"Normal":529,"Pain":530},"magikarp":{"Happy":531,"Normal":532,"Pain":533},"magmar":{"Normal":534},"magnemite":{"Happy":535,"Normal":536,"Pain":537},"magneton":{"Happy":538,"Normal":539,"Pain":540},"manaphy":{"Happy":541,"Normal":542,"Pain":543},"mankey":{"Happy":544,"Normal":545},"mantine":{"Happy":546,"Normal":547,"Pain":548},"mareep":{"Happy":549,"Normal":550,"Pain":551},"marill":{"Happy":552,"Normal":553,"Pain":554},"marowak":{"Happy":555,"Normal":556,"Pain":557},"marshadow":{"Happy":558,"Normal":559,"Pain":560},"mawile":{"Angry":561,"Crying":562,"Determined":563,"Dizzy":564,"Happy":565,"Inspired":566,"Joyous":567,"Normal":568,"Pain":569,"Sad":570,"Shouting":571,"Sigh":572,"Stunned":573,"Surprised":574,"Teary-Eyed":575,"Worried":576},"mega_steelix":{"Normal":577},"meganium":{"Happy":578,"Normal":579,"Pain":580},"melmetal":{"Happy":581,"Normal":582,"Pain":583},"meloetta":{"Happy":584,"Normal":585,"Pain":586},"meltan":{"Happy":587,"Normal":588,"Pain":589},"meowth":{"Happy":590,"Normal":591,"Pain":592},"mesprit":{"Happy":593,"Normal":594,"Pain":595},"metapod":{"Happy":596,"Normal":597,"Pain":598},"mew":{"Angry":599,"Determined":600,"Happy":601,"Normal":602,"Pain":603,"Surprised":604},"mewtwo":{"Angry":605,"Determined":606,"Happy":607,"Normal":608,"Pain":609,"Surprised":610},"miltank":{"Happy":611,"Normal":612,"Pain":613},"miraidon":{"Normal":614},"misdreavus":{"Happy":615,"Normal":616,"Pain":617},"moltres":{"Normal":618},"mr_mime":{"Normal":619},"muk":{"Normal":620},"munkidori":{"Happy":621,"Normal":622},"murkrow":{"Angry":623,"Crying":624,"Determined":625,"Dizzy":626,"Happy":627,"Inspired":628,"Joyous":629,"Normal":630,"Pain":631,"Sad":632,"Shouting":633,"Sigh":634,"Stunned":635,"Surprised":636,"Teary-Eyed":637,"Worried":638},"natu":{"Happy":639,"Normal":640,"Pain":641},"necrozma":{"Happy":642,"Normal":643,"Pain":644},"nidoking":{"Happy":645,"Normal":646,"Pain":647},"nidoqueen":{"Happy":648,"Normal":649,"Pain":650},"nidoran_f":{"Happy":651,"Normal":652,"Pain":653},"nidoran_m":{"Happy":654,"Normal":655,"Pain":656},"nidorina":{"Happy":657,"Normal":658,"Pain":659},"nidorino":{"Happy":660,"Normal":661,"Pain":662},"ninetales":{"Happy":663,"Normal":664,"Pain":665},"noctowl":{"Happy":666,"Normal":667,"Pain":668},"octillery":{"Happy":669,"Normal":670,"Pain":671},"oddish":{"Happy":672,"Normal":673,"Pain":674},"ogerpon":{"Happy":675,"Normal":676,"Pain":677},"okidogi":{"Normal":678},"omanyte":{"Happy":679,"Normal":680,"Pain":681},"omastar":{"Normal":682},"onix":{"Normal":683},"palkia":{"Angry":684,"Determined":685,"Happy":686,"Normal":687,"Pain":688,"Surprised":689},"paras":{"Happy":690,"Normal":691,"Pain":692},"parasect":{"Normal":693},"pecharunt":{"Normal":694},"persian":{"Happy":695,"Normal":696,"Pain":697},"phanpy":{"Happy":698,"Normal":699,"Pain":700},"phione":{"Happy":701,"Normal":702,"Pain":703},"pichu":{"Happy":704,"Normal":705,"Pain":706},"pidgeot":{"Angry":707,"Crying":708,"Determined":709,"Dizzy":710,"Happy":711,"Inspired":712,"Joyous":713,"Normal":714,"Pain":715,"Sad":716,"Shouting":717,"Sigh":718,"Stunned":719,"Surprised":720,"Teary-Eyed":721,"Worried":722},"pidgeotto":{"Normal":723},"pidgey":{"Happy":724,"Normal":725,"Pain":726},"pikachu":{"Happy":727,"Normal":728,"Pain":729},"piloswine":{"Normal":730},"pineco":{"Happy":731,"Normal":732,"Pain":733},"pinsir":{"Normal":734},"politoed":{"Normal":735},"poliwag":{"Happy":736,"Normal":737,"Pain":738},"poliwhirl":{"Happy":739,"Normal":740,"Pain":741},"poliwrath":{"Happy":742,"Normal":743,"Pain":744},"ponyta":{"Happy":745,"Normal":746,"Pain":747},"porygon":{"Happy":748,"Normal":749,"Pain":750},"porygon2":{"Happy":751,"Normal":752,"Pain":753},"primeape":{"Normal":754},"psyduck":{"Happy":755,"Normal":756,"Pain":757},"pupitar":{"Normal":758},"quagsire":{"Happy":759,"Normal":760,"Pain":761},"quilava":{"Happy":762,"Normal":763,"Pain":764},"qwilfish":{"Happy":765,"Normal":766,"Pain":767},"raichu":{"Happy":768,"Normal":769,"Pain":770},"raikou":{"Angry":771,"Determined":772,"Happy":773,"Normal":774,"Pain":775,"Surprised":776},"rapidash":{"Happy":777,"Normal":778,"Pain":779},"raticate":{"Happy":780,"Normal":781,"Pain":782},"rattata":{"Happy":783,"Normal":784,"Pain":785},"rayquaza":{"Happy":786,"Normal":787,"Pain":788},"regice":{"Happy":789,"Normal":790,"Pain":791},"regidrago":{"Happy":792,"Normal":793,"Pain":794},"regieleki":{"Happy":795,"Normal":796,"Pain":797},"regigigas":{"Happy":798,"Normal":799,"Pain":800},"regirock":{"Happy":801,"Normal":802,"Pain":803},"registeel":{"Happy":804,"Normal":805,"Pain":806},"remoraid":{"Happy":807,"Normal":808,"Pain":809},"reshiram":{"Happy":810,"Normal":811,"Pain":812},"rhydon":{"Happy":813,"Normal":814,"Pain":815},"rhyhorn":{"Happy":816,"Normal":817,"Pain":818},"rowlet":{"Happy":819,"Normal":820,"Pain":821},"sandshrew":{"Happy":822,"Normal":823,"Pain":824},"sandslash":{"Happy":825,"Normal":826,"Pain":827},"scizor":{"Happy":828,"Normal":829,"Pain":830},"scyther":{"Happy":831,"Normal":832,"Pain":833},"seadra":{"Normal":834},"seaking":{"Normal":835},"seel":{"Happy":836,"Normal":837,"Pain":838},"sentret":{"Happy":839,"Normal":840,"Pain":841},"shaymin":{"Happy":842,"Normal":843,"Pain":844},"shellder":{"Happy":845,"Normal":846,"Pain":847},"shuckle":{"Happy":848,"Normal":849,"Pain":850},"silvally":{"Happy":851,"Normal":852,"Pain":853},"skarmory":{"Happy":854,"Normal":855,"Pain":856},"skiploom":{"Happy":857,"Normal":858,"Pain":859},"slowbro":{"Happy":860,"Normal":861},"slowking":{"Happy":862,"Normal":863,"Pain":864},"slowpoke":{"Happy":865,"Normal":866,"Pain":867},"slugma":{"Happy":868,"Normal":869,"Pain":870},"smeargle":{"Happy":871,"Normal":872,"Pain":873},"smoochum":{"Happy":874,"Normal":875,"Pain":876},"sneasel":{"Happy":877,"Normal":878,"Pain":879},"snorlax":{"Happy":880,"Normal":881,"Pain":882},"snubbull":{"Happy":883,"Normal":884,"Pain":885},"solgaleo":{"Happy":886,"Normal":887,"Pain":888},"spearow":{"Happy":889,"Normal":890,"Pain":891},"spectrier":{"Happy":892,"Normal":893,"Pain":894},"spinarak":{"Happy":895,"Normal":896,"Pain":897},"squirtle":{"Happy":898,"Normal":899,"Pain":900},"stantler":{"Happy":901,"Normal":902},"starmie":{"Normal":903},"staryu":{"Happy":904,"Normal":905,"Pain":906},"steelix":{"Normal":907},"sudowoodo":{"Happy":908,"Normal":909,"Pain":910},"suicune":{"Angry":911,"Determined":912,"Happy":913,"Normal":914,"Pain":915,"Surprised":916},"sunflora":{"Happy":917,"Normal":918,"Pain":919},"sunkern":{"Happy":920,"Normal":921,"Pain":922},"swinub":{"Happy":923,"Normal":924,"Pain":925},"tangela":{"Happy":926,"Normal":927,"Pain":928},"tapu_bulu":{"Normal":929},"tapu_fini":{"Normal":930},"tapu_koko":{"Happy":931,"Normal":932,"Pain":933},"tapu_lele":{"Happy":934,"Normal":935,"Pain":936},"tauros":{"Happy":937,"Normal":938,"Pain":939},"teddiursa":{"Happy":940,"Normal":941,"Pain":942},"tentacool":{"Happy":943,"Normal":944,"Pain":945},"tentacruel":{"Normal":946},"terapagos":{"Happy":947,"Normal":948},"terrakion":{"Happy":949,"Normal":950,"Pain":951},"thundurus":{"Normal":952},"ting_lu":{"Normal":953},"togepi":{"Happy":954,"Normal":955,"Pain":956},"togetic":{"Happy":957,"Normal":958,"Pain":959},"tornadus":{"Normal":960},"totodile":{"Happy":961,"Normal":962,"Pain":963},"type_null":{"Happy":964,"Normal":965,"Pain":966},"typhlosion":{"Happy":967,"Normal":968,"Pain":969},"tyranitar":{"Happy":970,"Normal":971,"Pain":972},"tyrogue":{"Happy":973,"Normal":974,"Pain":975},"umbreon":{"Happy":976,"Normal":977,"Pain":978},"unown":{"Happy":979,"Normal":980,"Pain":981},"ursaring":{"Angry":982,"Crying":983,"Determined":984,"Dizzy":985,"Happy":986,"Inspired":987,"Joyous":988,"Normal":989,"Pain":990,"Sad":991,"Shouting":992,"Sigh":993,"Stunned":994,"Surprised":995,"Teary-Eyed":996,"Worried":997},"urshifu":{"Normal":998},"uxie":{"Happy":999,"Normal":1000,"Pain":1001},"vaporeon":{"Happy":1002,"Normal":1003,"Pain":1004},"venomoth":{"Happy":1005,"Normal":1006,"Pain":1007},"venonat":{"Happy":1008,"Normal":1009,"Pain":1010},"venusaur":{"Happy":1011,"Normal":1012,"Pain":1013},"victini":{"Happy":1014,"Normal":1015,"Pain":1016},"victreebel":{"Normal":1017},"vileplume":{"Normal":1018},"virizion":{"Happy":1019,"Normal":1020,"Pain":1021},"volcanion":{"Happy":1022,"Normal":1023,"Pain":1024},"voltorb":{"Happy":1025,"Normal":1026,"Pain":1027},"vulpix":{"Happy":1028,"Normal":1029,"Pain":1030},"wartortle":{"Happy":1031,"Normal":1032,"Pain":1033},"weedle":{"Happy":1034,"Normal":1035,"Pain":1036},"weepinbell":{"Normal":1037,"Pain":1038},"weezing":{"Normal":1039},"wigglytuff":{"Happy":1040,"Normal":1041,"Pain":1042},"wo_chien":{"Normal":1043},"wobbuffet":{"Angry":1044,"Crying":1045,"Determined":1046,"Dizzy":1047,"Happy":1048,"Inspired":1049,"Joyous":1050,"Normal":1051,"Pain":1052,"Sad":1053,"Shouting":1054,"Sigh":1055,"Stunned":1056,"Surprised":1057,"Teary-Eyed":1058,"Worried":1059},"wooper":{"Happy":1060,"Normal":1061,"Pain":1062},"xatu":{"Happy":1063,"Normal":1064,"Pain":1065},"xerneas":{"Happy":1066,"Normal":1067,"Pain":1068},"yanma":{"Happy":1069,"Normal":1070,"Pain":1071},"yveltal":{"Happy":1072,"Normal":1073,"Pain":1074},"zacian":{"Happy":1075,"Normal":1076,"Pain":1077},"zamazenta":{"Normal":1078},"zapdos":{"Normal":1079},"zarude":{"Happy":1080,"Normal":1081,"Pain":1082},"zekrom":{"Happy":1083,"Normal":1084,"Pain":1085},"zeraora":{"Happy":1086,"Normal":1087,"Pain":1088},"zubat":{"Happy":1089,"Normal":1090,"Pain":1091},"zygarde":{"Happy":1092,"Normal":1093,"Pain":1094}};
 export const PORTRAIT_COLS = 40;

diff --git a/client/js/game.js b/client/js/game.js
@@ -497,6 +497,13 @@ const KECLEON_GREEN_LINES = ['¡Bienvenido, bienvenido! Mira, mira: género fres
 const KECLEON_PURPLE_LINES = ['¿Qué me traes hoy? Perlas, pepitas, tesoros olvidados… ¡Todo lo que brilla vale Pokés!', 'Mi hermano habla demasiado. Yo prefiero que hablen los objetos. Enséñamelos.', 'Pago bien. No tanto como me gustaría a mí, ni tanto como te gustaría a ti. Un trato justo.', 'Si encuentras algo raro en una mazmorra, no lo tires. Tráemelo.'];
 const KANGASKHAN_LINES = ['¡Hola, cielo! ¿Guardamos algo a buen recaudo?', 'Lo que dejes conmigo no se pierde ni aunque te pase algo ahí fuera. Palabra de madre.', 'Mi pequeño dice que quiere ser explorador como tú. Todavía no sabe ni abrir una semilla.', '¿Has comido bien? En las mazmorras se pasa hambre, hazme caso.'];
 const GULPIN_LINES = ['…Gulp.', '¿Eh? Ah. Movimientos. Sí, sí… ¿qué querías?', '…Ñam. …¿Decías algo?'];
+// Murkrow, el cartero del gremio (junto al buzón de la plaza). También firma los anuncios del juego en Discord.
+const MURKROW_LINES = [
+  '¡Crrraaa! Soy Murkrow, el cartero del gremio. Muy pronto podrás dejar cartas en este buzón para otros exploradores.',
+  '¡Crrraaa! ¿Correo? Todavía no, todavía no… Pero cuando llegue, serás el primero en saberlo. ¡Palabra de cartero!',
+  'Las noticias vuelan, y yo con ellas. ¡Crrraaa! Si pasa algo en el gremio, me enteraré antes que nadie.',
+  '¿Sabías que llevo las novedades del gremio a todos los rincones? ¡Crrraaa! Nadie reparte como yo.',
+];
 function npcGreeting(who, lines, key, next, sp) {
   const c = hubCounters(); c[key] = (c[key] || 0) + 1; saveHubCounters(c);
   return openDialog([{ who, ...(sp ? { sp } : {}), text: lines[(c[key] - 1) % lines.length] }], next);
@@ -537,7 +544,7 @@ function talkTo(kind) {
       if (rankOf(meta.rankPts) < 4) return openDialog([{ who: 'Mawile', text: 'Lo siento, pero el jefe está ocupado. Por normas estipuladas del gremio, solamente gente de rango Diamante o superior pueden acceder de forma directa a su despacho.' }]);
       return openDialog([{ who: 'Mawile', text: `¡Rango Diamante! Adelante, ${user.name}. El jefe te recibirá.` }], () => openPidgeotOffice());
     case 'chatot_intro': return openDialog([{ who: 'Chatot', text: '¿Has cambiado de idea? ¡Estupendo!' }], () => tutorial(true));
-    case 'dugtrio': return openDialog([{ who: 'Dugtrio', text: 'Mi hijo está aprendiendo a hacer su labor. Quizá en un futuro pueda enseñar a otros como lo hago yo con él.' }]);
+    case 'murkrow': return npcGreeting('Murkrow', MURKROW_LINES, 'mk');
     case 'chansey': return openDialog([{ who: 'Chansey', text: '¡Bienvenidos a la zona de descanso! Aquí os recuperáis después de cada expedición. Descansad bien, que mañana será otro día de aventuras.' }]);
     case 'diglett': return openDialog([{ who: 'Diglett', text: '¡Huella reconocida! Pasa, pasa. Y no toques la rejilla.' }]);
     case 'chatot': return openDialog([{ who: 'Chatot', text: `¿Dudas, ${user.name}? El tablón está justo ahí. El maestro Pidgeot está… ocupado. Siempre está ocupado.` }], () => openMenu({ title: 'Chatot', items: ['Rango y progreso', 'Diario de exploracion', 'Repetir el tutorial', 'Nada, gracias'], onCancel: closeHub, onSelect: i => i === 0 ? openRankMenu() : i === 1 ? openDiaryMenu() : i === 2 ? tutorial() : closeHub() }));
@@ -1238,7 +1245,7 @@ function drawPortrait(c, sp, mood, x, y, size) {
   c.imageSmoothingEnabled = prev; return true;
 }
 // quién habla: la especie indicada, un personaje de la aldea, un jefe, o un Pokémon presente (tu equipo, la mazmorra)
-const NPC_SPECIES = { Chatot: 'chatot', Diglett: 'diglett', Dugtrio: 'dugtrio', Kecleon: 'kecleon', Kangaskhan: 'kangaskhan', Gulpin: 'gulpin', Wobbuffet: 'wobbuffet',
+const NPC_SPECIES = { Murkrow: 'murkrow', Chatot: 'chatot', Diglett: 'diglett', Dugtrio: 'dugtrio', Kecleon: 'kecleon', Kangaskhan: 'kangaskhan', Gulpin: 'gulpin', Wobbuffet: 'wobbuffet',
   'Kecleon morado': 'kecleon_purple', 'Kecleon verde': 'kecleon', Pidgeot: 'pidgeot', 'Maestro Pidgeot': 'pidgeot', Chansey: 'chansey', Mawile: 'mawile', Bruno: 'ursaring', Ursaring: 'ursaring' };
 const SPECIES_BY_NAME = Object.fromEntries(Object.entries(SPECIES).map(([k, s]) => [s.name, k]));
 function speakerSpecies(page) {
@@ -2293,7 +2300,7 @@ const DIALOG_FONT = () => Sprites.fontName || 'monospace';
 // Un único redibujado pendiente como mucho (evita que las animaciones encadenen fotogramas de más)
 let renderQueued = false;
 function scheduleRender() { if (renderQueued) return; renderQueued = true; requestAnimationFrame(() => { renderQueued = false; render(); }); }
-const NPC_PORTRAITS = ['chatot', 'diglett', 'kecleon', 'kangaskhan', 'gulpin', 'wobbuffet', 'pidgeot', 'chansey', 'mawile', 'dugtrio'];
+const NPC_PORTRAITS = ['chatot', 'diglett', 'kecleon', 'kangaskhan', 'gulpin', 'wobbuffet', 'pidgeot', 'chansey', 'mawile', 'murkrow'];
 function renderDialog() {
   const d = state.dialog; if (!d) return;
   const page = d.pages[d.i], W = LOG.w, h = Math.round(114 * UIS()), y = LOG.h - h - 6, x = 6, w = W - 12;   // como en el original: casi todo el ancho y ~¼ de la altura

diff --git a/client/js/hub.js b/client/js/hub.js
@@ -13,7 +13,7 @@ export const HUB = {
     ],
     npcs: [
       { id: 'chatot', x: 446, y: 226, facing: [-1, 1], talk: 'chatot_intro', intro: true },                          // solo al empezar: te recibe en la entrada
-      { id: 'dugtrio', x: 316, y: 214, facing: [1, 1], talk: 'dugtrio', fixedFacing: true, reach: 40 },   // el padre de Diglett: anticipo de la Guardia de huellas
+      { id: 'murkrow', x: 316, y: 214, facing: [1, 1], talk: 'murkrow', fixedFacing: true, reach: 40 },   // el cartero del gremio, junto al buzón
     ],
     signs: [ { rect: [70, 170, 130, 230], text: 'Mercado de Kecleon ←' }, { rect: [440, 405, 500, 465], text: '↓ Aldea · Salida a las mazmorras' } ],
   },

diff --git a/shared/version.js b/shared/version.js
@@ -5,6 +5,6 @@
 //   1.0.0 → lanzamiento completo
 // Los cambios de los parches se acumulan en changelog/pendiente.md y entran en el anuncio de la siguiente actualización.
 // Excepción: un parche se anuncia solo si arregla un fallo grave que afecta a todos (partidas perdidas, el juego no carga…).
-export const VERSION = '0.3.0';
+export const VERSION = '0.3.1';
 export const CHANNEL = 'Beta';
 export const VERSION_LABEL = `${CHANNEL} ${VERSION}`;
